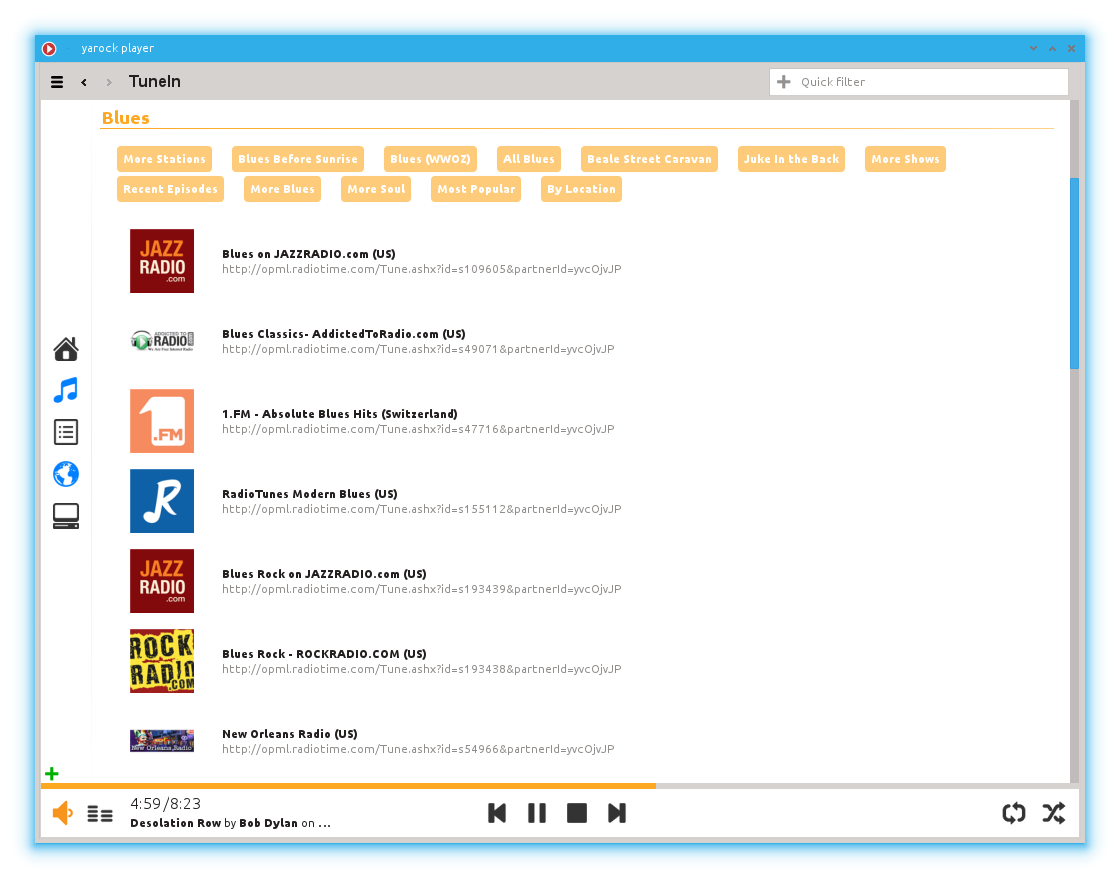
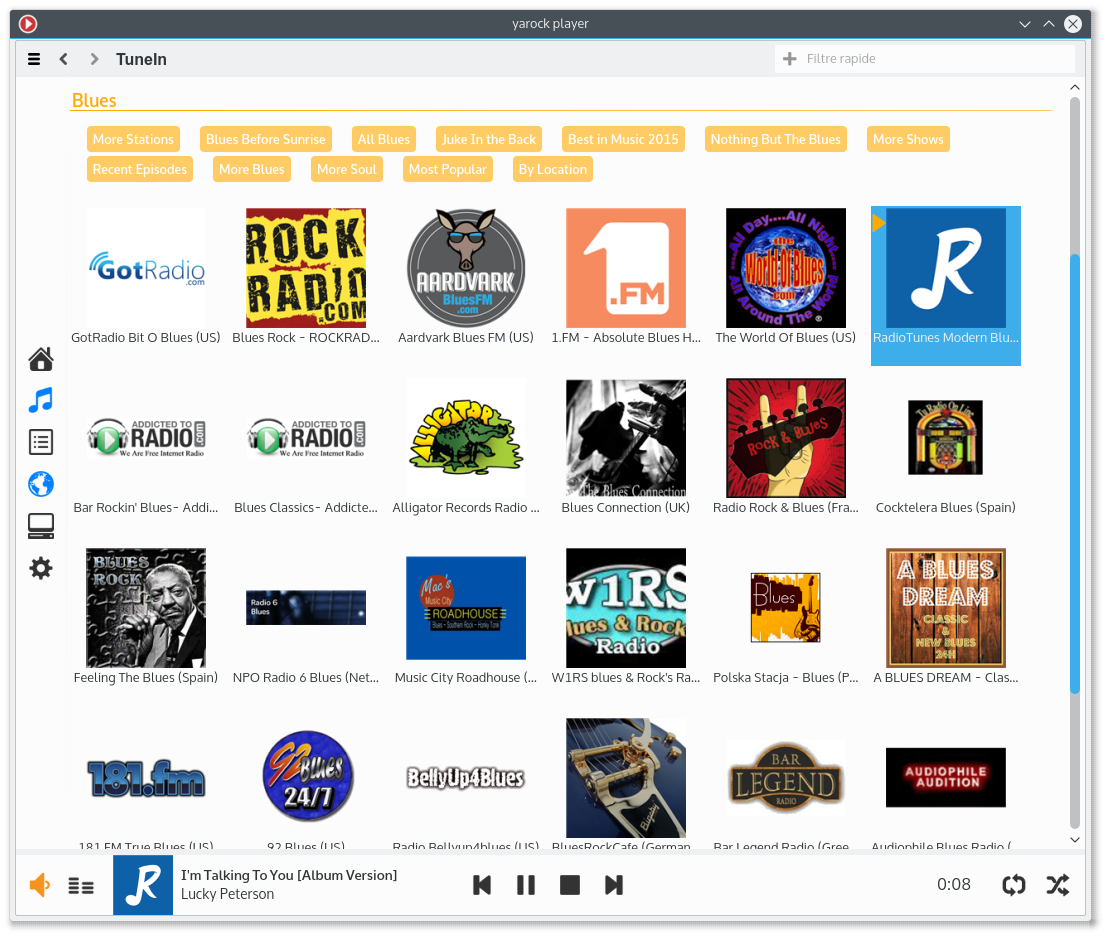
1.1.5 release update

diff --git a/index.html b/index.html
@@ -11,19 +11,21 @@ Yarock is <strong>easy to build</strong> with a minimal set of dependancies, and
 <table class="screenshots_table">
 <tr>
     <td class="screenshot">
-      <a href="screenshots/screenshot_oxygen_theme.png" ><img src="screenshots/screenshot_oxygen_theme.png" alt="yarock screenshot" width="480"></a>
+      <a href="screenshots/yarock_breeze.png" ><img src="screenshots/yarock_breeze.png" alt="yarock screenshot" width="480"></a>
     </td>
     
     <td class="screenshot">
-      <a href="screenshots/screenshot_dark _theme.png" ><img src="screenshots/screenshot_dark _theme.png" alt="yarock screenshot" width="480"></a>
+      <a href="screenshots/yarock_breeze_dark.png" ><img src="screenshots/yarock_breeze_dark.png" alt="yarock screenshot" width="480"></a>
     </td>
   </tr>
 </table>
 
 <div align="center">  
-<a class="btn-bl" href="https://launchpad.net/yarock/+download" target="_blank">Download Yarock-Player</a>
+<a class="btn-bl" href="https://launchpad.net/yarock/+download" target="_blank">Download</a>
 <a class="btn-bl" href="http://qt-apps.org/content/show.php/yarock?content=129372">Qt-apps page</a>
 <a class="btn-bl" href="https://launchpad.net/yarock/">Development page</a>
+<a class="btn-donate" href="http://qt-apps.org/content/donate.php?content=129372">Donate</a>
+
 </div>
 <br>
 

diff --git a/install.html b/install.html
@@ -72,6 +72,7 @@ You need CMake (CMake >= 2.8.0) and the development packages for the followings 
 <br>    
 
 <h2>Dependancies preparation</h2>
+<br>
 <b> On UBUNTU 15.10 fresh install</b>
 
 Install following packages using "sudo apt-get install <PACKAGE>"
@@ -102,7 +103,7 @@ For Qt5 build use followings packages:
   - libhtmlcxx-dev
   - libphonon4qt5-dev [libvlc-dev,libmpv-dev]
 </pre>
-
+<br>
 <b> On FEDORA 23 fresh install</b>
 Install following packages using "sudo dnf install <PACKAGE>"
 <pre>
@@ -114,9 +115,6 @@ Install following packages using "sudo dnf install <PACKAGE>"
   - phonon-devel [vlc-devel, libmpv-devel]
 </pre>
 
-Launch cmake command
-> cd build
-> cmake .. -DENABLE_VLC=ON -DENABLE_MPV=ON
 
 For Qt5 build use followings packages:
 <pre>

diff --git a/css/style.css b/css/style.css
@@ -333,6 +333,17 @@ a.btn-bl {
   margin-bottom: 15px;
 }
 
+a.btn-donate {
+  display: inline-block;
+  padding: 1% 2%;
+  background-color: #ffcc00;
+  color: #fff;
+  text-decoration: none!important;
+  border-radius: 5px;
+  font-weight: 700;
+  margin-bottom: 15px;
+}
+
 /* ***************************************************** */
 table {
   border-collapse: collapse;
